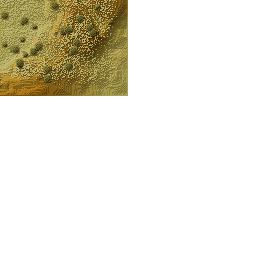
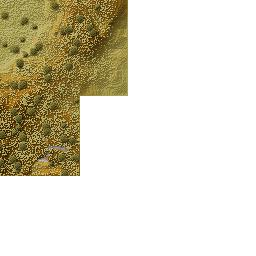
update

Changed region(s): [[0.0, 0.2812, 0.3125, 0.6875]]

diff --git a/unmined.map.regions.js b/unmined.map.regions.js
@@ -1,5 +1,5 @@
 var UnminedRegions = [
-{ x: 0, z: 0, m: new Uint32Array([1574407,3,1,1,1,1,0,0,0,0,0,0,0,0,0,0,0,0,0,0,0,0,0,0,0,0,0,0,0,0,0,0,0,0,0,0,0,0,0,0,0,0,0,0,0,0,0,0,0,0,0,0,0,0,0,0,0,0,0,0,0,0,0,0,0,0,0,0,0,0,0,0,0,0,0,0,0,0,0,0,0,0,0,0,0,0,0,0,0,0,0,0,0,0,0,0,0,0,0,0,0,0,0,0,0,0,0,0,0,0,0,0,0,0,0,0,0,0,0,0,0,0,0,0,0,0,0,0,0,0,0,0,0,0,0,0,0,0,0,0,0,0,0,0,0,0,0,0,0,0,0,0,0,0,0,0,0,0,0,0,0,0,0,0,0,0,0,0,0,0,0,0,0,0,0,0,0,0,0,0,0,0,0,0,0,0,0,0,0,0,0,0,0,0,0,0,0,0,0,0,0,0,0,0,0,0,0,0,0,0,0,0,0,0,0,0,0,0,0,0,0,0,0,0,0,0,0,0,0,0,0,0,0,0,0,0,0,0,0,0,0,0,0,0,0,0,0,0,0,0,0,0,0,0,0,0]) },
+{ x: 0, z: 0, m: new Uint32Array([1574407,3,3,1,1,1,0,0,0,0,0,0,0,0,0,0,0,0,0,0,0,0,0,0,0,0,0,0,0,0,0,0,0,0,0,0,0,0,0,0,0,0,0,0,0,0,0,0,0,0,0,0,0,0,0,0,0,0,0,0,0,0,0,0,0,0,0,0,0,0,0,0,0,0,0,0,0,0,0,0,0,0,0,0,0,0,0,0,0,0,0,0,0,0,0,0,0,0,0,0,0,0,0,0,0,0,0,0,0,0,0,0,0,0,0,0,0,0,0,0,0,0,0,0,0,0,0,0,0,0,0,0,0,0,0,0,0,0,0,0,0,0,0,0,0,0,0,0,0,0,0,0,0,0,0,0,0,0,0,0,0,0,0,0,0,0,0,0,0,0,0,0,0,0,0,0,0,0,0,0,0,0,0,0,0,0,0,0,0,0,0,0,0,0,0,0,0,0,0,0,0,0,0,0,0,0,0,0,0,0,0,0,0,0,0,0,0,0,0,0,0,0,0,0,0,0,0,0,0,0,0,0,0,0,0,0,0,0,0,0,0,0,0,0,0,0,0,0,0,0,0,0,0,0,0,0]) },
 { x: 0, z: -1, m: new Uint32Array([0,0,0,0,0,0,0,0,0,0,0,0,0,0,0,0,0,0,0,0,0,0,0,0,0,0,0,0,0,0,7,1574407,0,0,0,0,0,0,0,0,0,0,0,0,0,0,0,0,0,0,0,0,0,0,0,0,0,0,0,0,0,0,0,0,0,0,0,0,0,0,0,0,0,0,0,0,0,0,0,0,0,0,0,0,0,0,0,0,0,0,0,0,0,0,0,0,0,0,0,0,0,0,0,0,0,0,0,0,0,0,0,0,0,0,0,0,0,0,0,0,0,0,0,0,0,0,0,0,0,0,0,0,0,0,0,0,0,0,0,0,0,0,0,0,0,0,0,0,0,0,0,0,0,0,0,0,0,0,0,0,0,0,0,0,0,0,0,0,0,0,0,0,0,0,0,0,0,0,0,0,0,0,0,0,0,0,0,0,0,0,0,0,0,0,0,0,0,0,0,0,0,0,0,0,0,0,0,0,0,0,0,0,0,0,0,0,0,0,0,0,0,0,0,0,0,0,0,0,0,0,0,0,0,0,0,0,0,0,0,0,0,0,0,0,0,0,0,0,0,0,0,0,0,0,0,0]) },
 { x: -1, z: 0, m: new Uint32Array([3758096384,3221225472,2147483648,3221225472,4026531840,4026531840,4026531840,0,0,0,0,0,0,0,0,0,0,0,0,0,0,0,0,0,0,0,0,0,0,0,0,0,0,0,0,0,0,0,0,0,0,0,0,0,0,0,0,0,0,0,0,0,0,0,0,0,0,0,0,0,0,0,0,0,0,0,0,0,0,0,0,0,0,0,0,0,0,0,0,0,0,0,0,0,0,0,0,0,0,0,0,0,0,0,0,0,0,0,0,0,0,0,0,0,0,0,0,0,0,0,0,0,0,0,0,0,0,0,0,0,0,0,0,0,0,0,0,0,0,0,0,0,0,0,0,0,0,0,0,0,0,0,0,0,0,0,0,0,0,0,0,0,0,0,0,0,0,0,0,0,0,0,0,0,0,0,0,0,0,0,0,0,0,0,0,0,0,0,0,0,0,0,0,0,0,0,0,0,0,0,0,0,0,0,0,0,0,0,0,0,0,0,0,0,0,0,0,0,0,0,0,0,0,0,0,0,0,0,0,0,0,0,0,0,0,0,0,0,0,0,0,0,0,0,0,0,0,0,0,0,0,0,0,0,0,0,0,0,0,0,0,0,0,0,0,0]) },
 { x: -1, z: -1, m: new Uint32Array([0,0,0,0,0,0,0,0,0,0,0,0,0,0,0,0,0,0,0,0,0,0,0,0,0,0,0,0,0,0,3221225472,3758096384,0,0,0,0,0,0,0,0,0,0,0,0,0,0,0,0,0,0,0,0,0,0,0,0,0,0,0,0,0,0,0,0,0,0,0,0,0,0,0,0,0,0,0,0,0,0,0,0,0,0,0,0,0,0,0,0,0,0,0,0,0,0,0,0,0,0,0,0,0,0,0,0,0,0,0,0,0,0,0,0,0,0,0,0,0,0,0,0,0,0,0,0,0,0,0,0,0,0,0,0,0,0,0,0,0,0,0,0,0,0,0,0,0,0,0,0,0,0,0,0,0,0,0,0,0,0,0,0,0,0,0,0,0,0,0,0,0,0,0,0,0,0,0,0,0,0,0,0,0,0,0,0,0,0,0,0,0,0,0,0,0,0,0,0,0,0,0,0,0,0,0,0,0,0,0,0,0,0,0,0,0,0,0,0,0,0,0,0,0,0,0,0,0,0,0,0,0,0,0,0,0,0,0,0,0,0,0,0,0,0,0,0,0,0,0,0,0,0,0,0,0,0,0,0]) },
